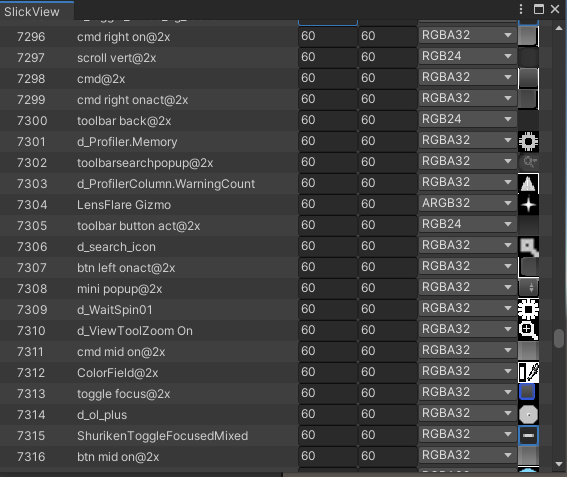
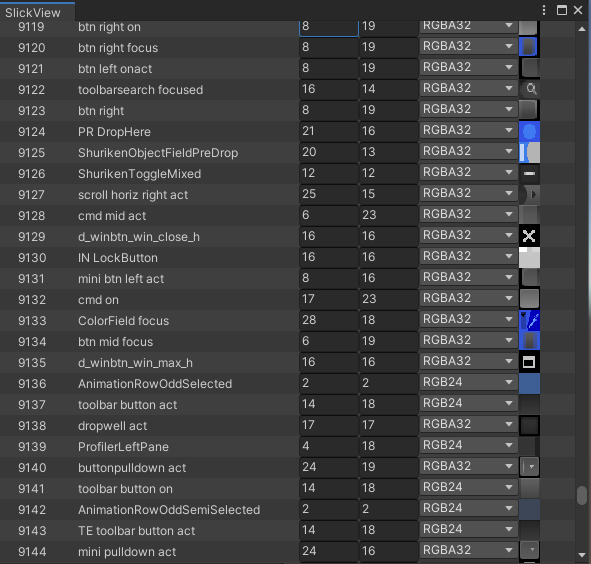
Added some comments

diff --git a/Assets/Code/Editor/SlickViewWindow.cs b/Assets/Code/Editor/SlickViewWindow.cs
@@ -1,3 +1,4 @@
+using System;
 using System.Collections.Generic;
 using UnityEditor;
 using UnityEngine;
@@ -9,10 +10,10 @@ namespace SlickView
         private SlickViewLayout _slickViewLayout;
 
         private static SlickViewWindow _instance;
-        public static  GUIStyle        Box;
-        public static  GUIStyle        EvenBackground;
-        public static  GUIStyle        OddBackground;
-        public static  GUIStyle        LogStyle;
+        private static GUIStyle        Box;
+        private static GUIStyle        EvenBackground;
+        private static GUIStyle        OddBackground;
+        private static GUIStyle        LogStyle;
         private        bool            _initialisedGUIStyles;
         Texture2D[]                    _textures;
         private Vector2                _scrollPos;
@@ -20,6 +21,9 @@ namespace SlickView
         private Rect[]                 _columnRects;
         GUIContent                     _tempContent = new GUIContent();
 
+        /// <summary>
+        /// An example list view element for the demo window
+        /// </summary>
         public struct ExampleListElement
         {
             public ExampleListElement(int index, Texture2D texture2D)
@@ -28,19 +32,21 @@ namespace SlickView
                 name          = texture2D.name;
                 width         = texture2D.width;
                 height        = texture2D.height;
+                format        = texture2D.format;
                 texture       = texture2D;
-                columnWidth   = new[] {60, 240, 60, 60, 50};
+                columnWidth   = new[] {60, 240, 60, 60, 100, 21};
             }
 
-            public string    elementNumber;
-            public string    name;
-            public int       width;
-            public int       height;
-            public Texture2D texture;
-            public int[]     columnWidth;
+            public string        elementNumber;
+            public string        name;
+            public int           width;
+            public int           height;
+            public TextureFormat format;
+            public Texture2D     texture;
+            public int[]         columnWidth;
         }
 
-        private List<ExampleListElement> _listElements = new List<ExampleListElement>(1000);
+        private List<ExampleListElement> _listElements = new List<ExampleListElement>(10000);
 
         [MenuItem("SlickView/Open Demo Window", false, 0)]
         public static void CreateDeviceWindow()
@@ -55,7 +61,11 @@ namespace SlickView
             _instance.InitVars();
         }
 
-        void Init()
+        /// <summary>
+        /// InitStyles
+        /// This has to be called from OnGUI rather than a initialisation step
+        /// </summary>
+        void InitStyles()
         {
             if (!_initialisedGUIStyles)
             {
@@ -67,11 +77,21 @@ namespace SlickView
             }
         }
 
+        /// <summary>
+        /// InitVars
+        /// Set up all the elements for the demo window
+        /// This happens whenever the window is opened or the assemblies have been loaded
+        /// </summary>
         void InitVars()
         {
             _listElements.Clear();
-            _slickViewLayout = new SlickViewLayout(32, 24, DrawElement);
-            _textures        = Resources.FindObjectsOfTypeAll<Texture2D>();
+
+            // create the slick view class and give it a starting size and delegate for drawing each element
+            _slickViewLayout = new SlickViewLayout(32, 21, DrawElement);
+
+            // the demo window finds all the textures in the project and displays them in order
+            // over and over until it reaches the specified capacity
+            _textures = Resources.FindObjectsOfTypeAll<Texture2D>();
             for (int i = 0; i < _listElements.Capacity; i++)
             {
                 _listElements.Add(new ExampleListElement(i, _textures[i % _textures.Length]));
@@ -82,37 +102,70 @@ namespace SlickView
 
         private void OnEnable()
         {
-            position              = new Rect(200, 200, 300, 400);
-            wantsLessLayoutEvents = true;
-            titleContent          = new GUIContent("SlickView");
+            position = new Rect(200, 200, 300, 400);
+            //   wantsLessLayoutEvents = true;
+            titleContent = new GUIContent("SlickView");
             InitVars();
         }
 
         private void OnGUI()
         {
-            Init();
+            InitStyles();
 
             _slickViewLayout.Draw(position, _listElements.Capacity, Box);
+
+            // uncomment this to compare performance with SlickView
+            // ExistingScrollView();
+        }
+
+        /// <summary>
+        /// ExistingScrollView
+        /// Example implementation using the existing ScrollView
+        /// </summary>
+        void OldScrollView()
+        {
+            _scrollPos = EditorGUILayout.BeginScrollView(_scrollPos);
+            foreach (var el in _listElements)
+            {
+                EditorGUILayout.TextField(el.name);
+                EditorGUILayout.IntField(el.width);
+            }
+
+            EditorGUILayout.EndScrollView();
         }
 
 
+        /// <summary>
+        /// DrawElement
+        /// Called for each row that is visible
+        /// </summary>
+        /// <param name="rect"></param>
+        /// Area in which to render the elements
+        /// <param name="row"></param>
+        /// Row number in the underlying list
+        /// <param name="selected"></param>
+        /// Is this row currently selected by the user
         void DrawElement(Rect rect, int row, bool selected)
         {
             ExampleListElement el = _listElements[row];
             GUIStyle           s  = (row & 1) == 0 ? OddBackground : EvenBackground;
             s.Draw(rect, false, false, selected, false);
             int column = 0;
-            DrawLabel(ref rect, el.elementNumber, el.columnWidth[column++], false);
-            DrawLabel(ref rect, el.name, el.columnWidth[column++], false);
+
+            // draw some info using the row number as an index into the underlying element array
+            DrawLabel(ref rect, el.elementNumber, el.columnWidth[column++], selected);
+            DrawLabel(ref rect, el.name, el.columnWidth[column++], selected);
             DrawInt(ref rect, el.width, el.columnWidth[column++]);
             DrawInt(ref rect, el.height, el.columnWidth[column++]);
+            DrawEnum(ref rect, el.format, el.columnWidth[column++]);
             DrawTexture(ref rect, el.texture, el.columnWidth[column]);
         }
 
+        /// Some helper functions for displaying different types 
         void DrawInt(ref Rect r, int value, int width)
         {
             r.width = width;
-            EditorGUI.IntField(r, width);
+            EditorGUI.IntField(r, value);
             r.x += width;
         }
 
@@ -127,7 +180,14 @@ namespace SlickView
         void DrawTexture(ref Rect r, Texture2D value, int width)
         {
             r.width = width;
-            EditorGUI.ObjectField(r, value, typeof(Texture2D), false);
+            EditorGUI.DrawPreviewTexture(r, value);
+            r.x += width;
+        }
+
+        void DrawEnum(ref Rect r, Enum value, int width)
+        {
+            r.width = width;
+            EditorGUI.EnumPopup(r, value);
             r.x += width;
         }
     }

diff --git a/Assets/Code/Editor/SlickViewLayout.cs b/Assets/Code/Editor/SlickViewLayout.cs
@@ -21,28 +21,34 @@ namespace SlickView
         }
 
 
-        public bool Draw(Rect rect, int totalRows, GUIStyle style)
+        /// <summary>
+        /// Draw
+        /// Called during the OnGUI of the client code
+        /// for SlickView to render its view
+        /// </summary>
+        /// <param name="rect"></param>
+        /// <param name="totalRows"></param>
+        /// <param name="style"></param>
+        public void Draw(Rect rect, int totalRows, GUIStyle style)
         {
             Event e = Event.current;
 
-            bool selectionChanged = false;
             _slickViewState.visRect   = rect;
             _slickViewState.totalRows = totalRows;
 
+            // iterate through all the rows that are _visible_ in the view 
+            // and call the draw delegate
             foreach (SlickViewElement el in SlickView.ListView(_slickViewState, style))
             {
                 if (e.type == EventType.MouseDown && e.button == 0 && el.position.Contains(e.mousePosition))
                 {
-                    _selectedRow     = _slickViewState.row;
-                    selectionChanged = true;
+                    _selectedRow = _slickViewState.row;
                 }
                 else if (e.type == EventType.Repaint)
                 {
                     _draw(el.position, el.row, _selectedRow == el.row);
                 }
             }
-
-            return selectionChanged;
         }
     }
 }

diff --git a/README.md b/README.md
@@ -68,3 +68,4 @@ Instead of iterating over the entire list of elements Slick view calculates whic
 |:--:| 
 | *Screenshot of the demo window in SlickView with 10,000 textures* |
 
+To bring up this demo window select Slick View -> Open Demo Window
